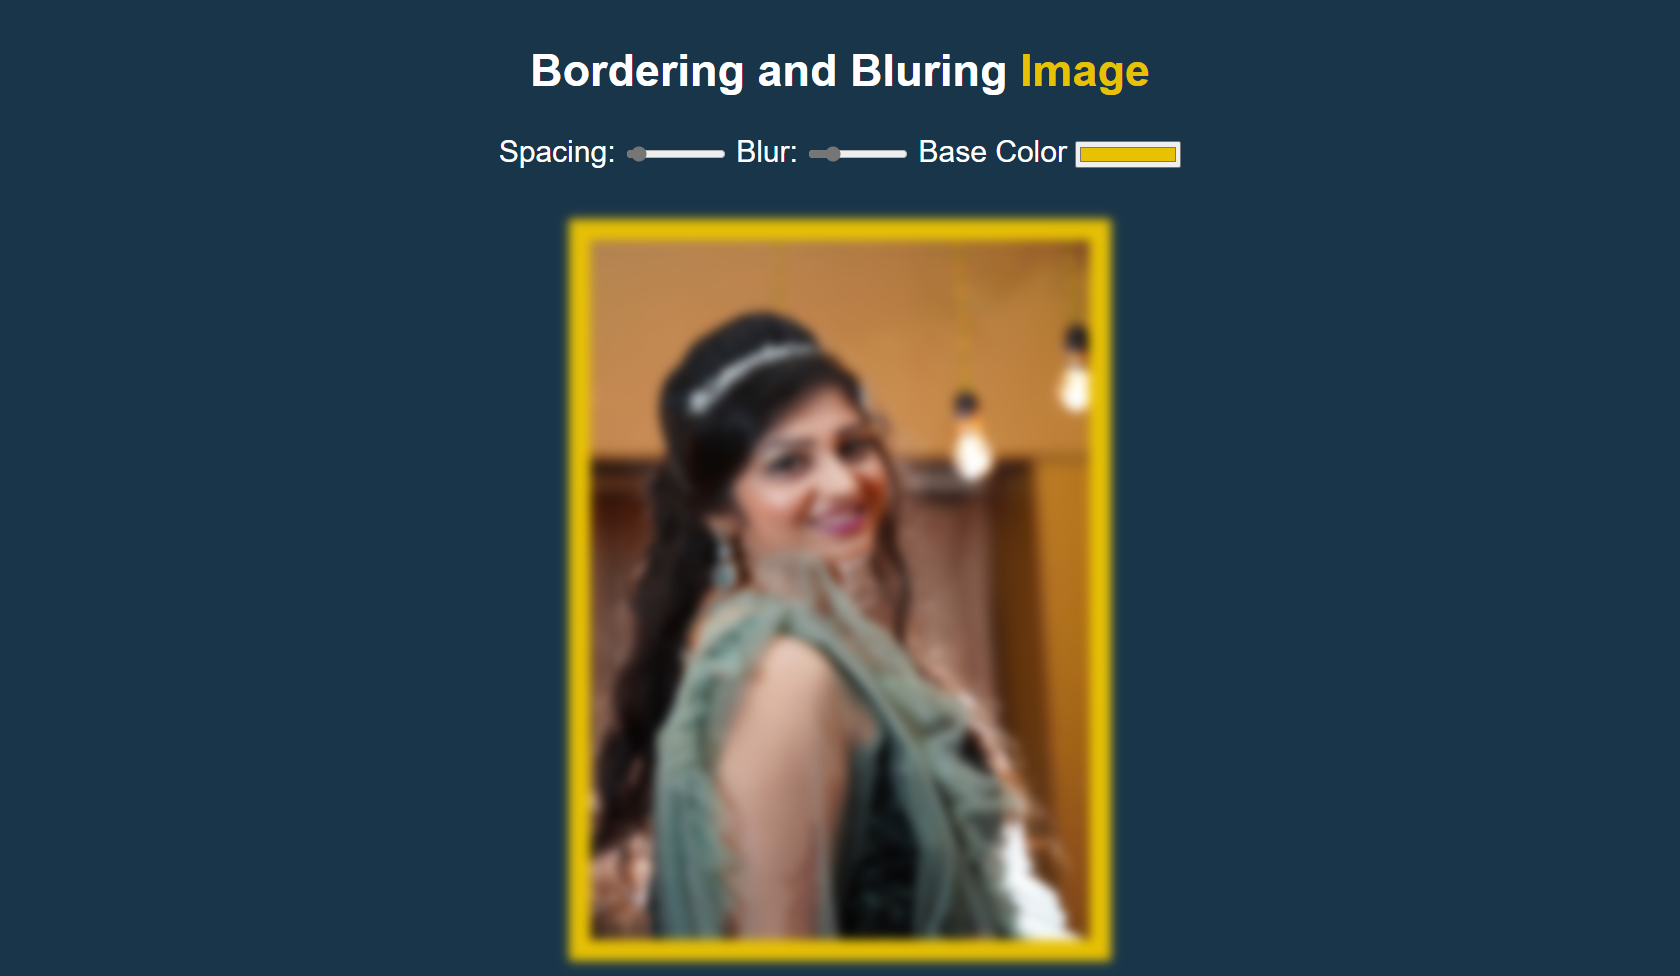
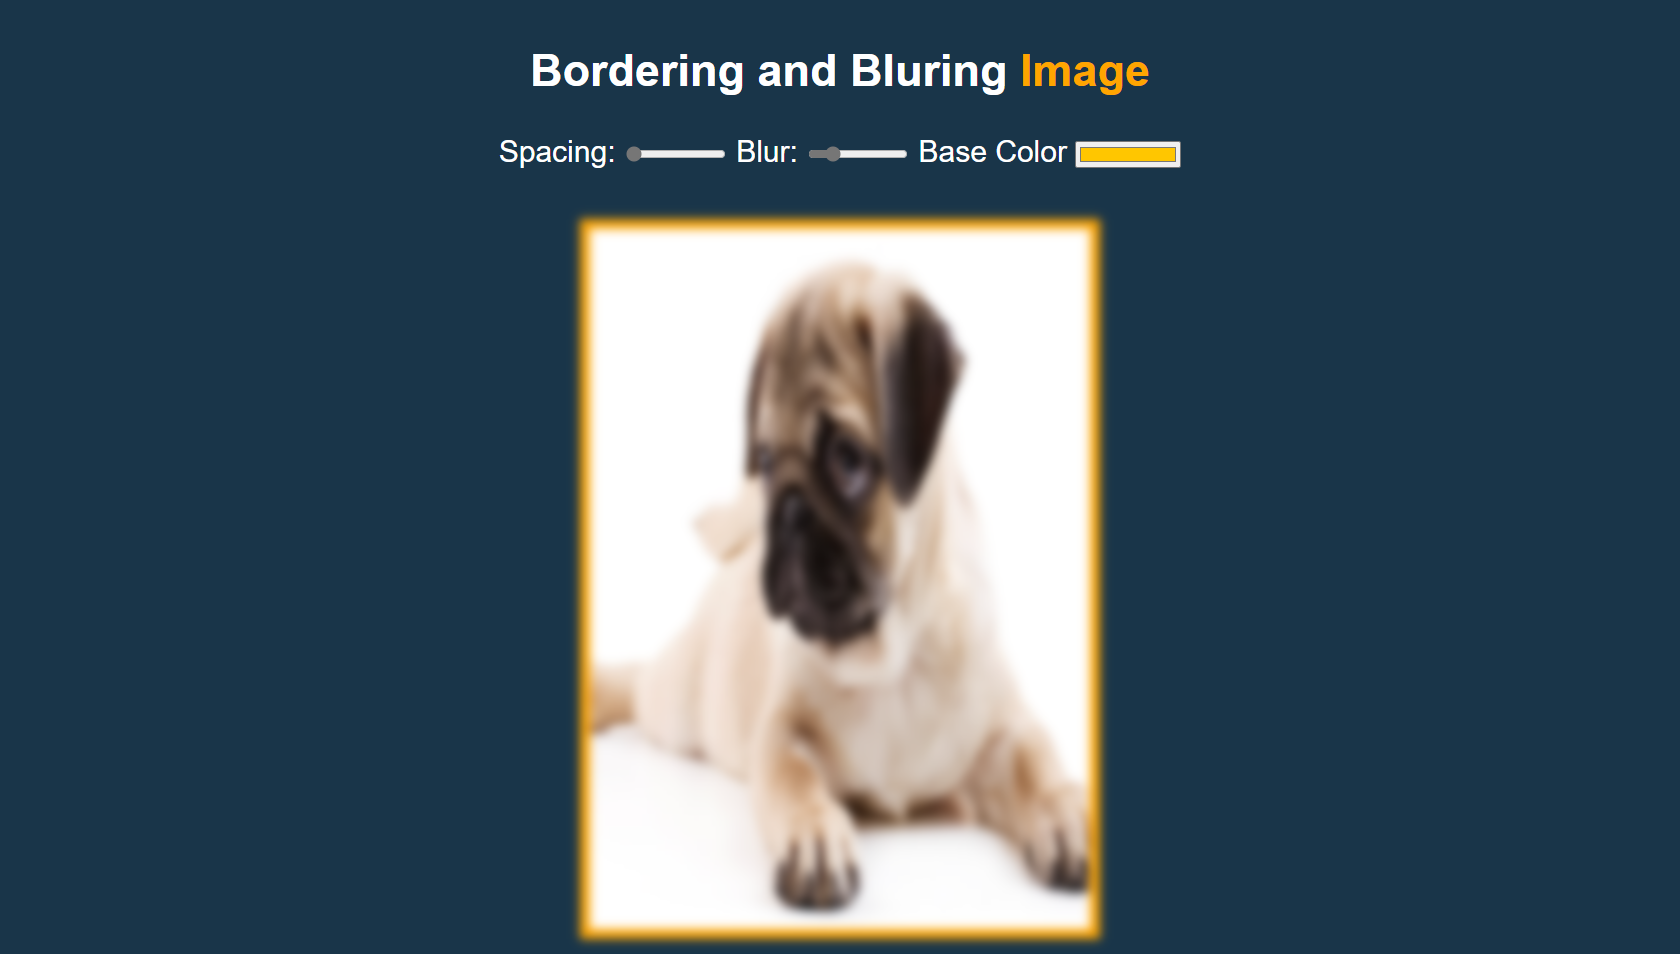
Some improvements and Day 4

Changed region(s): [[0.3095, 0.2128, 0.681, 1.0], [0.2786, 0.0608, 0.7119, 0.1824]]

diff --git a/Day4/styles.css b/Day4/styles.css
@@ -1,0 +1,87 @@
+html {
+    box-sizing: border-box;
+    background: #ffc600;
+    font-family: 'helvetica neue';
+    font-size: 20px;
+    font-weight: 200;
+  }
+  
+  body {
+    margin: 0;
+  }
+  
+  *, *:before, *:after {
+    box-sizing: inherit;
+  }
+
+  .panels {
+    min-height: 100vh;
+    overflow: hidden;
+    display:flex;
+  }
+
+  .panel {
+    background: #6B0F9C;
+    box-shadow: inset 0 0 0 5px rgba(255,255,255,0.1);
+    color: white;
+    text-align: center;
+    align-items: center;
+    /* Safari transitionend event.propertyName === flex */
+    /* Chrome + FF transitionend event.propertyName === flex-grow */
+    transition:
+      font-size 0.7s cubic-bezier(0.61,-0.19, 0.7,-0.11),
+      flex 0.7s cubic-bezier(0.61,-0.19, 0.7,-0.11),
+      background 0.2s;
+    font-size: 20px;
+    background-size: cover;
+    background-position: center;
+    flex: 1;
+    justify-content: center;
+    align-items: center;
+    display: flex;
+    flex-direction: column;
+  }
+
+  .panel1 { background-image:url(images/ACP08181.JPG); }
+  .panel2 { background-image:url(images/ACP08373.JPG); }
+  .panel3 { background-image:url(images/ACP_4113.JPG); }
+  .panel4 { background-image:url(images/ACP_4213.JPG); }
+  .panel5 { background-image:url(images/9A1BDB1C-AB62-48AF-9D3C-236B401EAA71.JPG); }
+
+  /* Flex Children */
+  .panel > * {
+    margin: 0;
+    width: 100%;
+    transition: transform 0.5s;
+    flex: 1 0 auto;
+    display: flex;
+    justify-content: center;
+    align-items: center;
+  }
+.panel >*:first-child{
+    transform: translateY(-100%);
+}
+.panel.open-active >*:first-child{
+    transform: translateY(0);
+}
+.panel >*:last-child{
+    transform: translateY(100%);
+}
+.panel.open-active >*:last-child{
+    transform: translateY(0);
+}
+  .panel p {
+    text-transform: uppercase;
+    font-family: 'Amatic SC', cursive;
+    text-shadow: 0 0 4px rgba(0, 0, 0, 0.72), 0 0 14px rgba(0, 0, 0, 0.45);
+    font-size: 2em;
+  }
+  
+  .panel p:nth-child(2) {
+    font-size: 4em;
+  }
+
+  .panel.open {
+      flex:3;
+    font-size: 40px;
+  }

diff --git a/Day4/flex.html b/Day4/flex.html
@@ -1,0 +1,61 @@
+<!DOCTYPE html>
+<html lang="en">
+<head>
+  <meta charset="UTF-8">
+  <title>All about Animals</title>
+  <link rel="stylesheet" href="styles.css">
+  <link href='https://fonts.googleapis.com/css?family=Amatic+SC' rel='stylesheet' type='text/css'>
+</head>
+<body>
+
+  <div class="panels">
+    <div class="panel panel1">
+      <p>Carnivorous</p>
+      <p>Cheetah</p>
+      <p>Speed: 50-80 mph</p>
+    </div>
+    <div class="panel panel2">
+      <p>Carnivorous</p>
+      <p>Tiger</p>
+      <p>Speed: 30-40 mph</p>
+    </div>
+    <div class="panel panel3">
+      <p>Herbivorous</p>
+      <p>Elephant</p>
+      <p>Speed: 25mph</p>
+    </div>
+    <div class="panel panel4">
+      <p>Carnivorous</p>
+      <p>Lion</p>
+      <p>Speed: 50 mph</p>
+    </div>
+    <div class="panel panel5">
+      <p>Herbivorous</p>
+      <p>Zebra</p>
+      <p>Speed: 40 mph</p>
+    </div>
+  </div>
+
+  <script>
+const panels = document.querySelectorAll('.panel');
+
+function toggleOpen() {
+  console.log('Hello');
+  this.classList.toggle('open');
+}
+
+function toggleActive(e) {
+  console.log(e.propertyName);
+  if (e.propertyName.includes('flex')) {
+    this.classList.toggle('open-active');
+  }
+}
+
+panels.forEach(panel => panel.addEventListener('click', toggleOpen));
+panels.forEach(panel => panel.addEventListener('transitionend', toggleActive));
+  </script>
+
+
+
+</body>
+</html>

diff --git a/Day3/bluringandspacing.html b/Day3/bluringandspacing.html
@@ -19,7 +19,7 @@
     <input id="base" type="color" name="base" value="#ffc600">
   </div>
 
-  <img src="images/surbhi.jpg">
+  <img src="images/dog.jpg">
 
 
 
